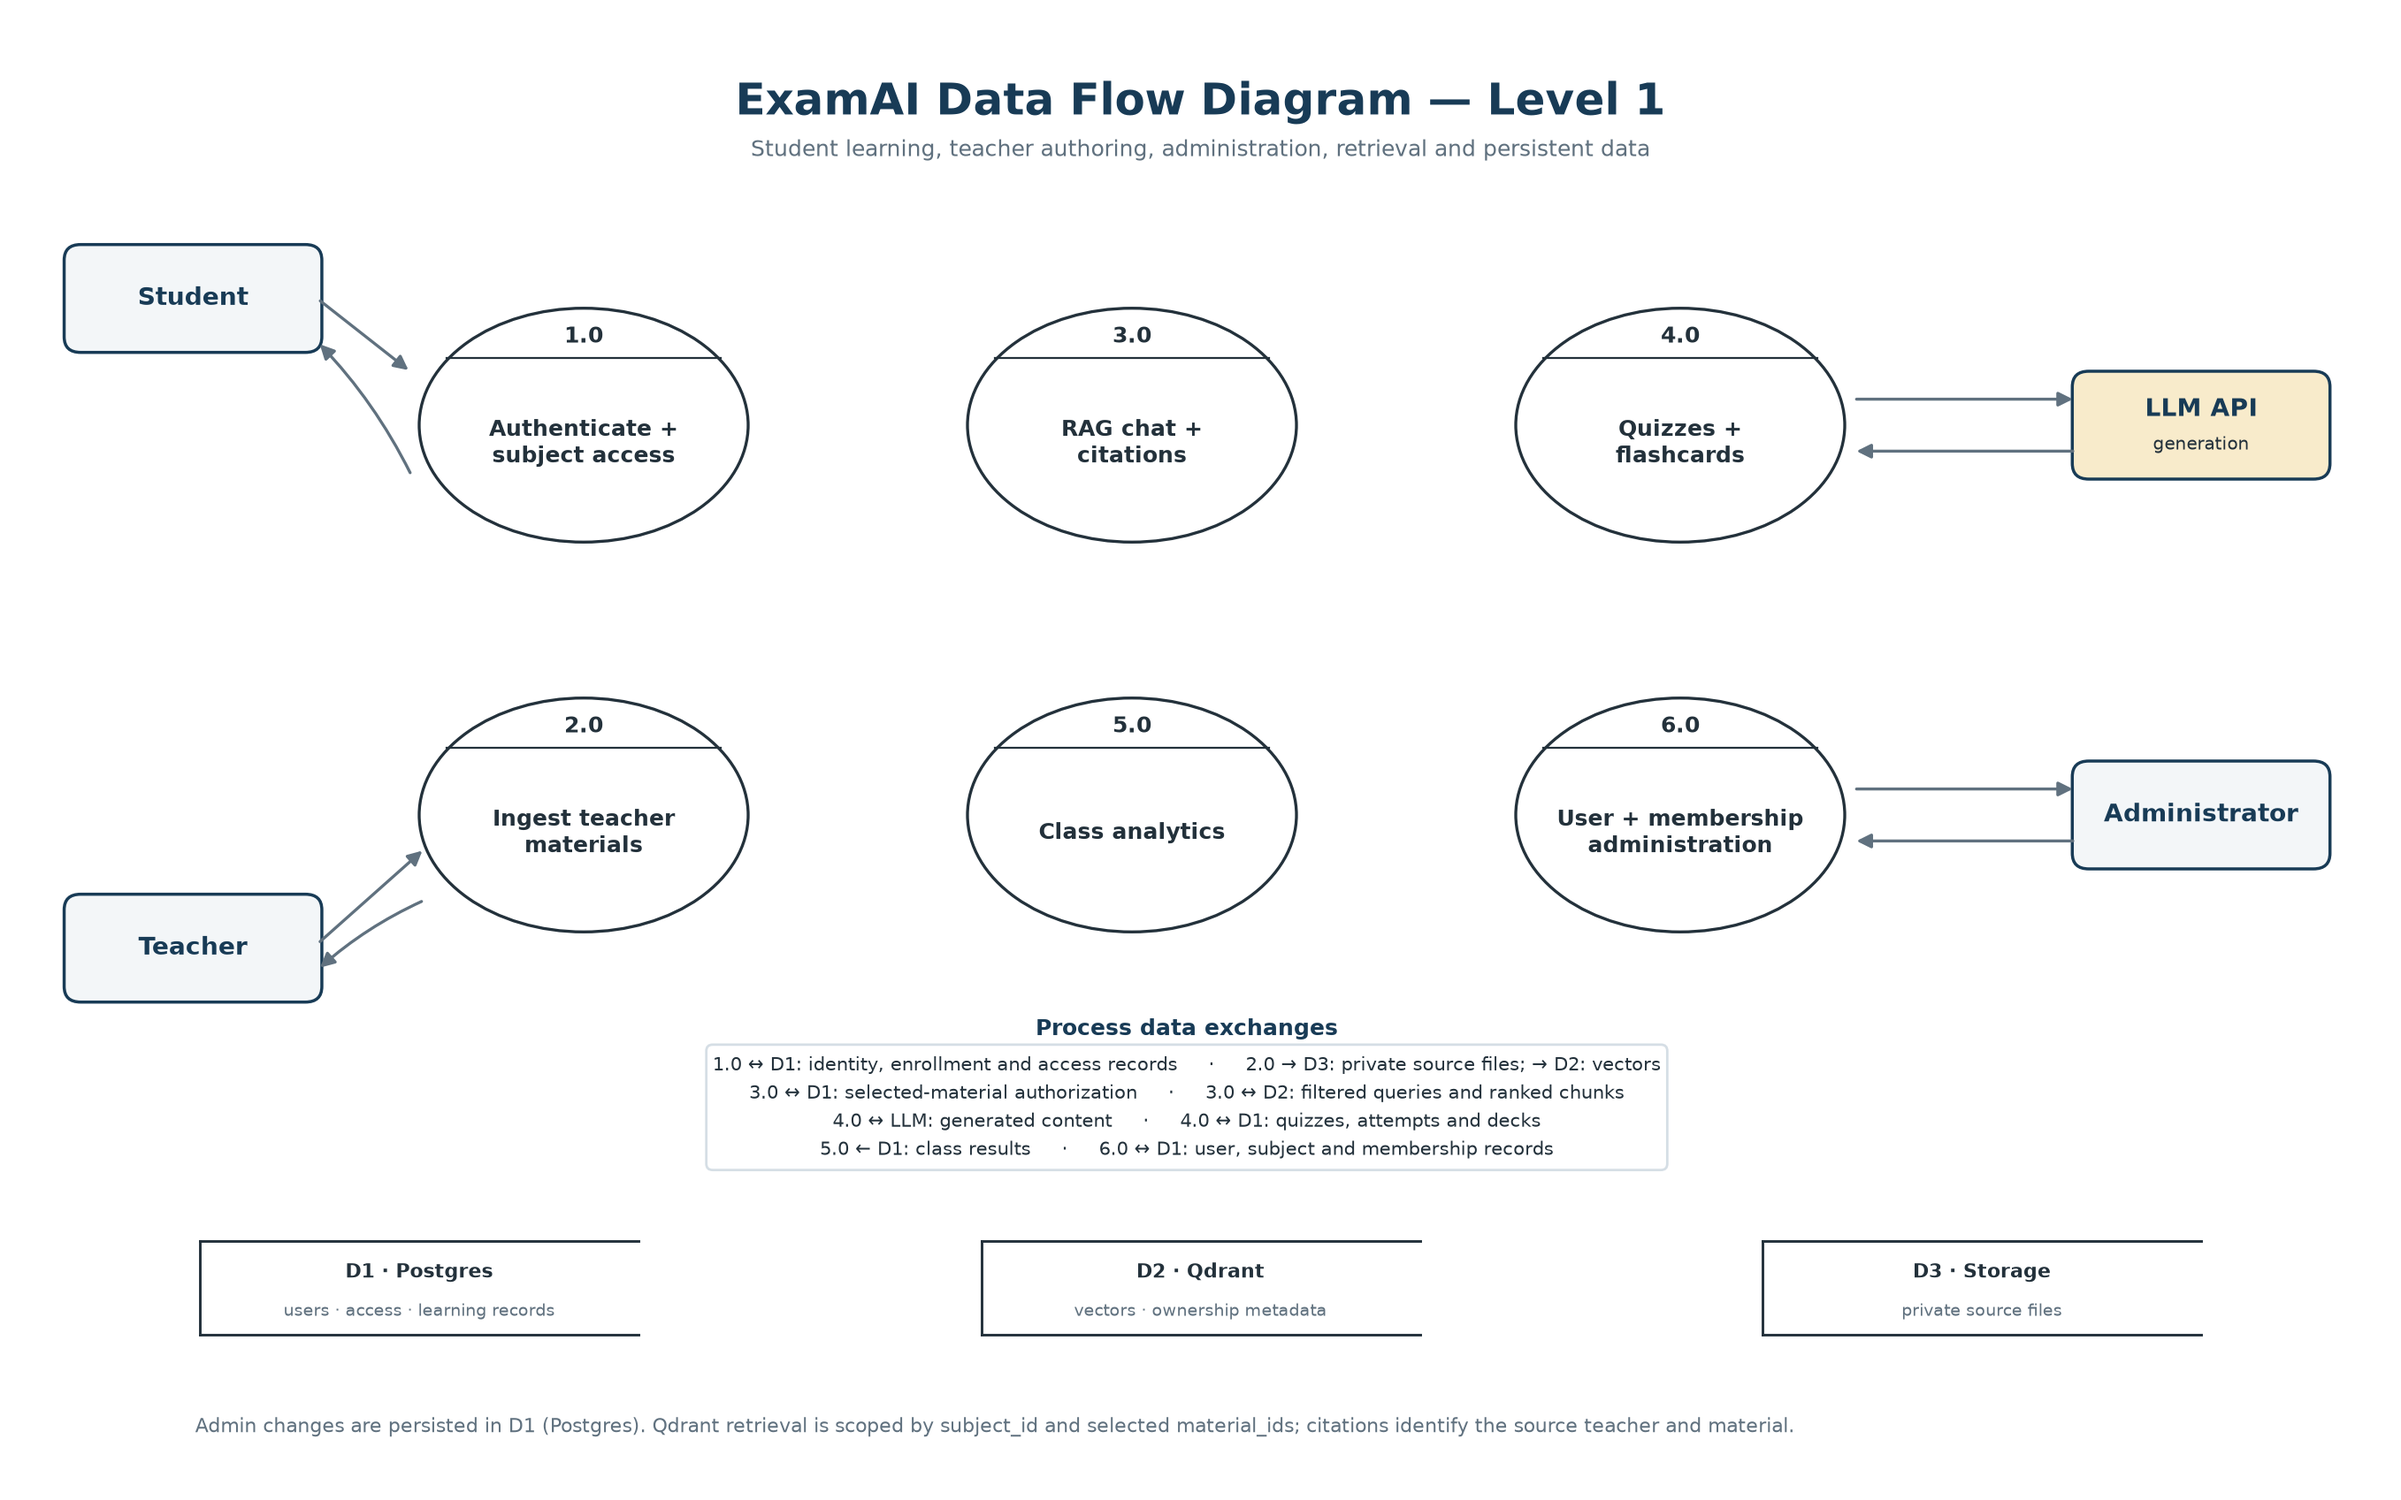
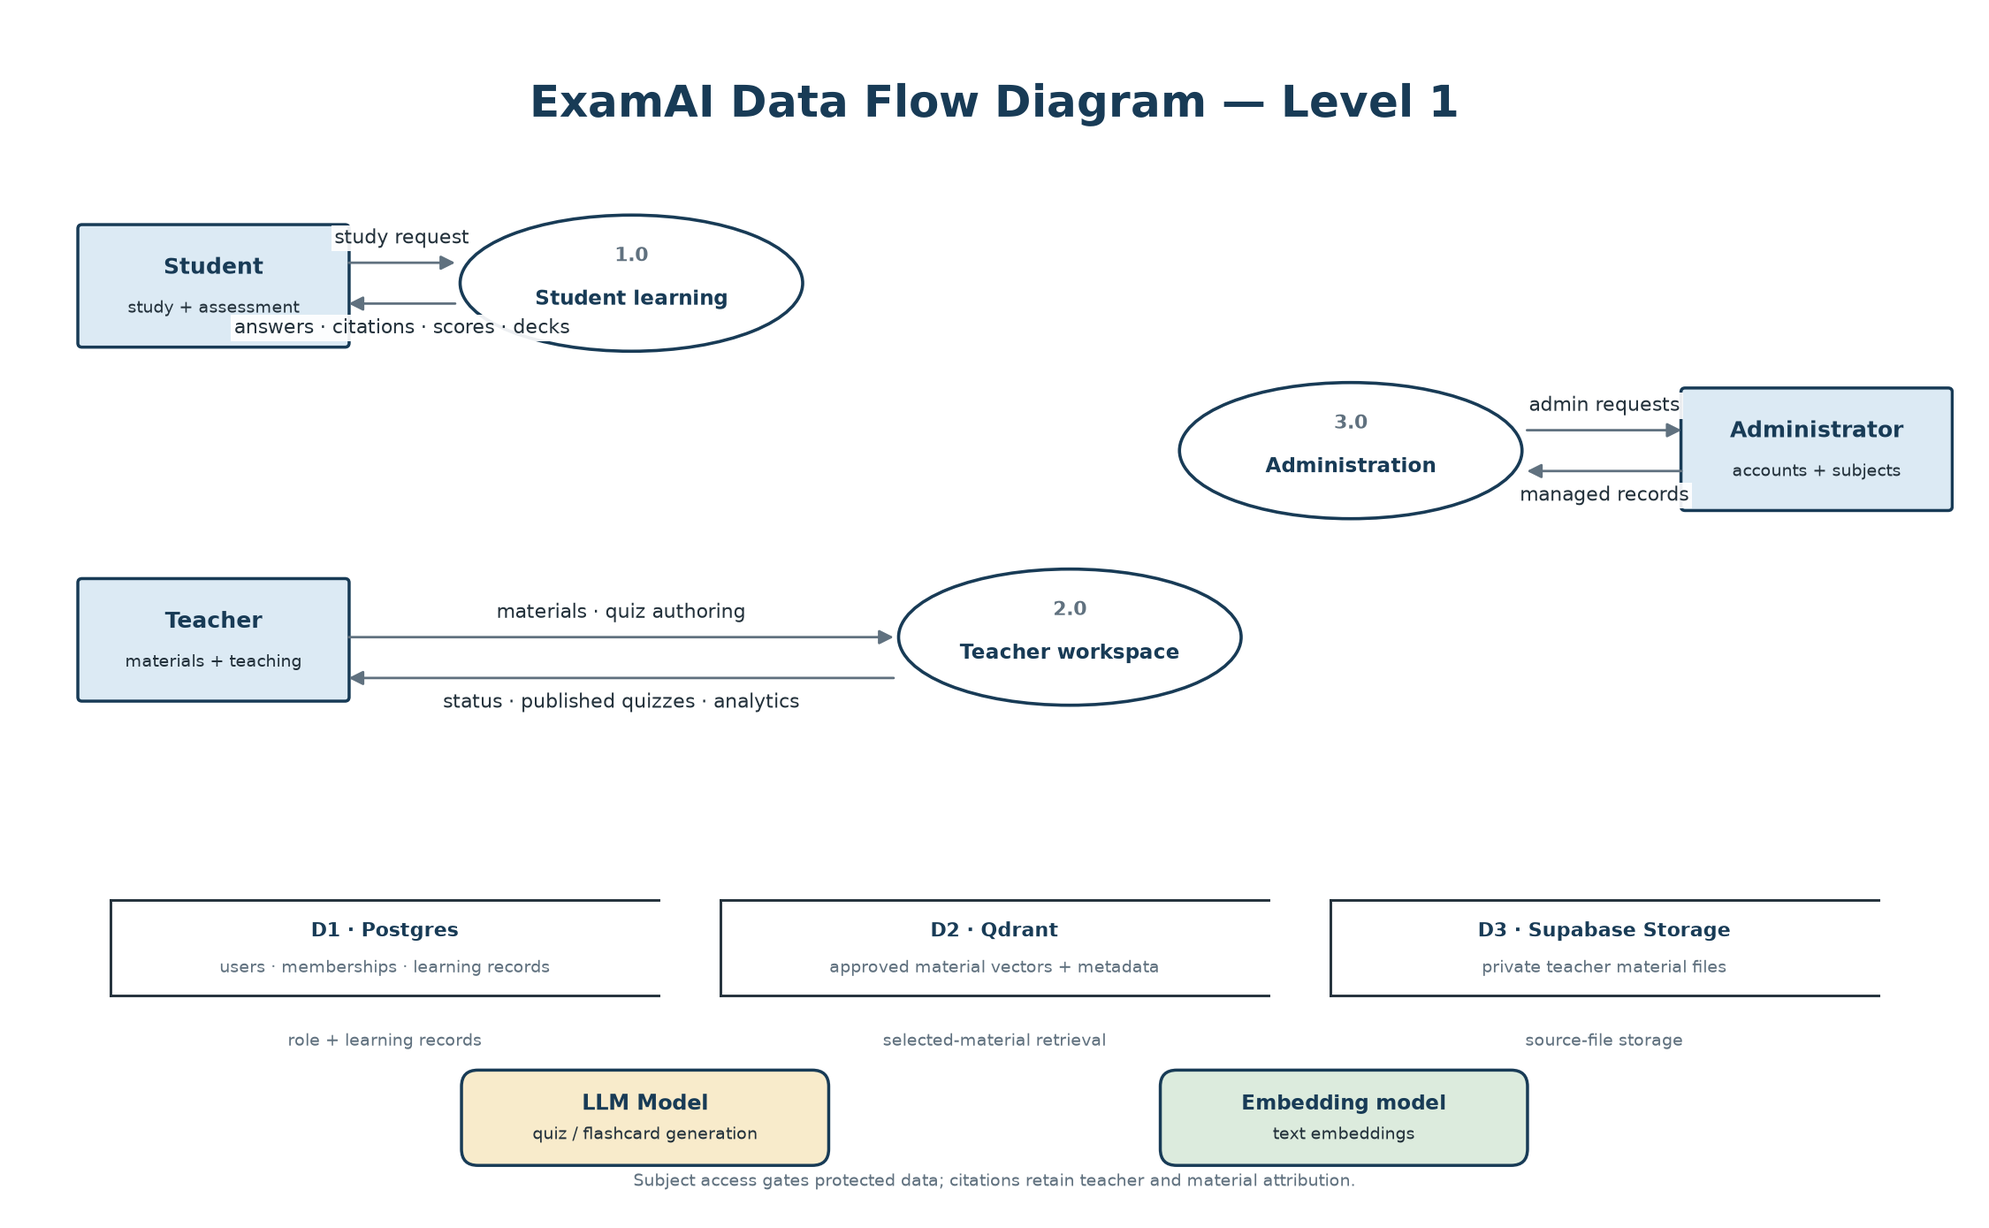
dfd1-compromise

diff --git a/SGP Report/Report Draft/generate_figures.py b/SGP Report/Report Draft/generate_figures.py
@@ -345,66 +345,65 @@ def dfd0():
 
 
 def dfd1():
-    fig, ax = canvas("ExamAI Data Flow Diagram — Level 1",
-                     "Student learning, teacher authoring, administration, retrieval and persistent data",
-                     size=(17, 10.5), ylim=(0, 11), xlim=(0, 17))
-    box(ax,.25,8.6,1.8,.75,"Student",fc=PALE)
-    box(ax,.25,3.6,1.8,.75,"Teacher",fc=PALE)
-    # Administrator sits on the 6.0 row; LLM API sits on the 4.0 row so each
-    # external connects horizontally to its own process without crossings.
-    box(ax,14.9,4.625,1.8,.75,"Administrator",fc=PALE)
-    def process(cx,cy,number,label):
-        ax.add_patch(Ellipse((cx,cy),2.4,1.8,facecolor=WHITE,edgecolor=INK,lw=1.2))
-        ax.plot([cx-1.0,cx+1.0],[cy+.52,cy+.52],color=INK,lw=.8)
-        ax.text(cx,cy+.68,number,ha="center",va="center",fontsize=9,weight="bold",color=INK)
-        ax.text(cx,cy-.14,label,ha="center",va="center",fontsize=9,weight="bold",color=INK,wrap=True)
-    # Put process nodes in a clean two-row grid; data stores sit below.
-    process(4.0,8.0,"1.0","Authenticate +\nsubject access")
-    process(8.0,8.0,"3.0","RAG chat +\ncitations")
-    # Short label fits the 2.4-wide oval; the LLM link is drawn explicitly
-    # with 4.0 <-> LLM API arrows and described in the key below.
-    process(12.0,8.0,"4.0","Quizzes +\nflashcards")
-    process(4.0,5.0,"2.0","Ingest teacher\nmaterials")
-    process(8.0,5.0,"5.0","Class analytics")
-    process(12.0,5.0,"6.0","User + membership\nadministration")
-    # Data stores share a low, evenly spaced row.
-    def store(x,y,w,title,detail):
-        ax.plot([x,x+w],[y,y],color=INK,lw=1.05)
-        ax.plot([x,x+w],[y+.72,y+.72],color=INK,lw=1.05)
-        ax.plot([x,x],[y,y+.72],color=INK,lw=1.05)
-        ax.text(x+w/2,y+.48,title,ha="center",va="center",fontsize=8,weight="bold",color=INK)
-        ax.text(x+w/2,y+.18,detail,ha="center",va="center",fontsize=7,color=GRAY)
-    store(1.2,1.0,3.2,"D1 · Postgres","users · access · learning records")
-    store(6.9,1.0,3.2,"D2 · Qdrant","vectors · ownership metadata")
-    store(12.6,1.0,3.2,"D3 · Storage","private source files")
-    box(ax,14.9,7.625,1.8,.75,"LLM API","generation",fc="#F8EBCB",detail_size=7.2)
-    # Actor associations stay local to their processes.
-    arrow(ax,2.05,8.98,2.75,8.4)
-    arrow(ax,2.75,7.6,2.05,8.65,rad=.08)
-    # 4.0 <-> LLM API (top row): generated content flows both ways.
-    arrow(ax,13.25,8.2,14.9,8.2)
-    arrow(ax,14.9,7.8,13.25,7.8)
-    # 6.0 <-> Administrator (middle row): membership administration.
-    arrow(ax,13.25,5.2,14.9,5.2)
-    arrow(ax,14.9,4.8,13.25,4.8)
-    arrow(ax,2.05,4.0,2.85,4.75)
-    arrow(ax,2.85,4.35,2.05,3.8,rad=.08)
-    # Compact data-flow key avoids long crossing lines. Each row names both
-    # the process and the store so flow ownership remains explicit.
-    # Key sits clear of both the process row above (bottom ~4.1) and the
-    # data-store row below (top ~1.72) so the D2 title stays visible.
-    ax.text(8.4,3.35,"Process data exchanges",ha="center",va="center",
-            fontsize=9,weight="bold",color=NAVY)
-    ax.text(8.4,2.75,
-            "1.0 ↔ D1: identity, enrollment and access records     ·     2.0 → D3: private source files; → D2: vectors\n"
-            "3.0 ↔ D1: selected-material authorization     ·     3.0 ↔ D2: filtered queries and ranked chunks\n"
-            "4.0 ↔ LLM: generated content     ·     4.0 ↔ D1: quizzes, attempts and decks\n"
-            "5.0 ← D1: class results     ·     6.0 ↔ D1: user, subject and membership records",
-            ha="center",va="center",fontsize=7.4,color=INK,linespacing=1.55,
-            bbox=dict(facecolor=WHITE,edgecolor="#D5DEE5",boxstyle="round,pad=.35",alpha=.98))
-    ax.text(7,.25,"Admin changes are persisted in D1 (Postgres). Qdrant retrieval is scoped by subject_id and selected material_ids; citations identify the source teacher and material.",
-            ha="center",fontsize=8,color=GRAY)
-    save(fig,"fig762_dfd1.png")
+    fig, ax = canvas("ExamAI Data Flow Diagram — Level 1", None,
+                     size=(14, 8.5), ylim=(0, 8.5), xlim=(0, 14))
+
+    def actor(x, y, title, detail):
+        box(ax, x, y, 1.9, .82, title, detail, fc=BLUE, title_size=9,
+            detail_size=7, radius=.03)
+
+    def process(cx, cy, number, label, w=2.5):
+        ax.add_patch(Ellipse((cx, cy), w, 1.0, facecolor=WHITE,
+                             edgecolor=NAVY, lw=1.3))
+        ax.text(cx, cy+.20, number, ha="center", va="center", fontsize=8,
+                weight="bold", color=GRAY)
+        ax.text(cx, cy-.12, label, ha="center", va="center", fontsize=8.2,
+                weight="bold", color=NAVY, wrap=True)
+
+    def store(x, y, w, title, detail):
+        ax.plot([x, x+w], [y, y], color=INK, lw=1.05)
+        ax.plot([x, x+w], [y+.7, y+.7], color=INK, lw=1.05)
+        ax.plot([x, x], [y, y+.7], color=INK, lw=1.05)
+        ax.text(x+w/2, y+.47, title, ha="center", va="center", fontsize=8,
+                weight="bold", color=NAVY)
+        ax.text(x+w/2, y+.2, detail, ha="center", va="center", fontsize=6.8,
+                color=GRAY, wrap=True)
+
+    # Three role-level processes keep this overview readable while covering
+    # the implemented student, teacher and administrator capabilities.
+    actor(.35, 6.25, "Student", "study + assessment")
+    actor(.35, 3.65, "Teacher", "materials + teaching")
+    actor(12.05, 5.05, "Administrator", "accounts + subjects")
+    process(4.35, 6.68, "1.0", "Student learning")
+    process(7.55, 4.08, "2.0", "Teacher workspace")
+    process(9.60, 5.45, "3.0", "Administration")
+
+    # Actor/process exchanges use local arrows with explicit data labels.
+    arrow(ax, 2.25, 6.83, 3.10, 6.83, "study request", label_offset=(0,.18), lw=1)
+    arrow(ax, 3.10, 6.53, 2.25, 6.53,
+          "answers · citations · scores · decks", label_offset=(0,-.18), lw=1)
+    arrow(ax, 2.25, 4.08, 6.30, 4.08,
+          "materials · quiz authoring", label_offset=(0,.18), lw=1)
+    arrow(ax, 6.30, 3.78, 2.25, 3.78,
+          "status · published quizzes · analytics", label_offset=(0,-.18), lw=1)
+    arrow(ax, 10.85, 5.60, 12.05, 5.60, "admin requests", label_offset=(0,.18), lw=1)
+    arrow(ax, 12.05, 5.30, 10.85, 5.30, "managed records", label_offset=(0,-.18), lw=1)
+
+    # Data services form a summary strip at this level of detail.
+    store(.55, 1.45, 4.0, "D1 · Postgres", "users · memberships · learning records")
+    store(5.0, 1.45, 4.0, "D2 · Qdrant", "approved material vectors + metadata")
+    store(9.45, 1.45, 4.0, "D3 · Supabase Storage", "private teacher material files")
+    box(ax, 3.15, .24, 2.6, .62, "LLM Model", "quiz / flashcard generation",
+        fc="#F8EBCB", title_size=8.5, detail_size=6.7)
+    box(ax, 8.25, .24, 2.6, .62, "Embedding model", "text embeddings",
+        fc=GREEN, title_size=8.2, detail_size=6.7)
+    ax.text(2.55, 1.08, "role + learning records", ha="center", fontsize=6.8, color=GRAY)
+    ax.text(7.0, 1.08, "selected-material retrieval", ha="center", fontsize=6.8, color=GRAY)
+    ax.text(11.45, 1.08, "source-file storage", ha="center", fontsize=6.8, color=GRAY)
+    ax.text(7.0, .02,
+            "Subject access gates protected data; citations retain teacher and material attribution.",
+            ha="center", va="bottom", fontsize=6.8, color=GRAY)
+    save(fig, "fig762_dfd1.png")
 
 
 if __name__ == "__main__":

diff --git a/SGP Report/Report Draft/Chapter 08 - System Design.md b/SGP Report/Report Draft/Chapter 08 - System Design.md
@@ -59,7 +59,7 @@ At the highest level, students, teachers, and administrators interact with ExamA
 
 ### 8.6.2 Level 1 DFD
 
-The level-one flow separates authentication, subject access, material ingestion, RAG chat, quiz management, flashcard generation, analytics, and user/membership administration. Authorization is checked by the services handling subject-scoped requests, while administration flows are gated by `require_admin`. During ingestion, material, teacher, and subject identifiers are stored in each Qdrant payload; retrieval filters by subject and selected material identifiers, and citation resolution uses the returned payload metadata.
+The level-one diagram groups the implemented flows by role: student learning, teacher workspace, and administration. It shows the principal requests and results while the accompanying data stores identify where relational records, approved material vectors, and private teacher files are kept. Subject access is checked before protected data is returned; retrieved citations retain teacher and material attribution.
 
 ![Figure 8.6.2: Level 1 DFD](figures/fig762_dfd1.png)
 
